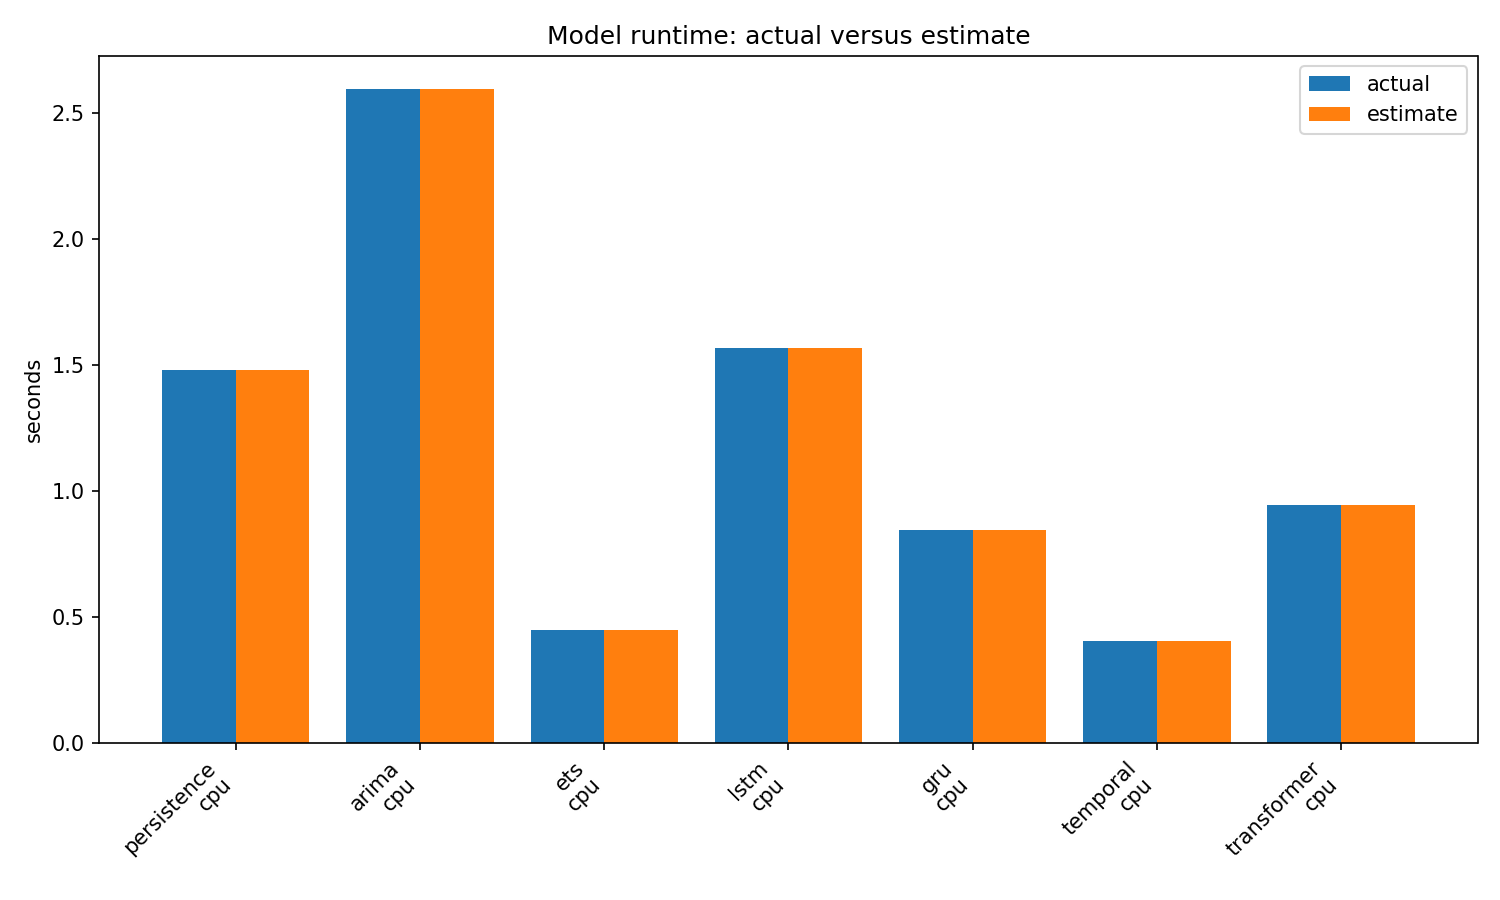
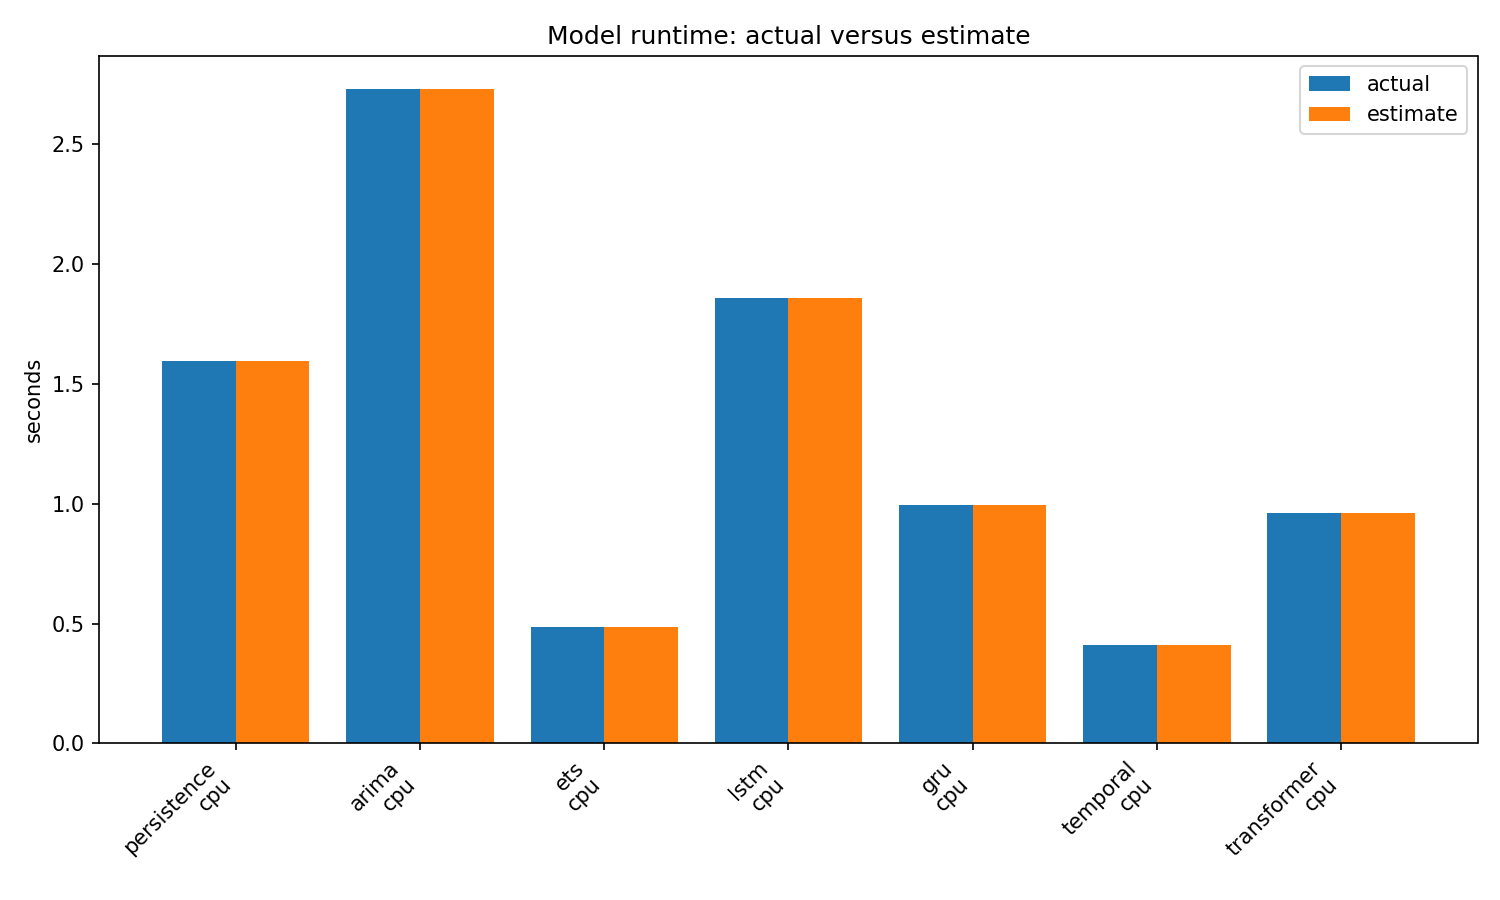
experiment: align forecast rerun with telemetry handoff

diff --git a/experiments/analysis/k3d-20261101-forecasting/README.md b/experiments/analysis/k3d-20261101-forecasting/README.md
@@ -5,10 +5,10 @@
 Do not activate any model. The temporal convolution is the validation-selected
 candidate for further shadow evaluation, but this capture is only 30 minutes of
 idle k3d telemetry and its node measurements share one Docker/WSL2 host. Only
-three independent calibration residuals were available per horizon, below the
-nine required to construct a finite-sample 90% conformal interval. Interval
-coverage is therefore unavailable, and these results do not support autonomous
-resource decisions.
+three per-node, time-spaced calibration residuals were available per horizon.
+They are also not independent physical-node evidence because all nodes share
+one host. Interval coverage is therefore unavailable, and these results do not
+support autonomous resource decisions.
 
 ## Data and protocol
 
@@ -21,22 +21,26 @@ resource decisions.
 - Split: chronological 60/20/20; validation is further separated for tuning,
   interval calibration, and coverage audit. Test origins are shared across all
   models and never used for fitting or calibration.
-- Interval status: unavailable. Node-aware spacing retains three independent
-  calibration residuals per horizon; the evaluator refuses to label these as
-  nominal 90% intervals.
+- Interval status: unavailable. Node-aware spacing retains three per-node
+  residuals per horizon, fewer than the nine required even before accounting
+  for shared-host correlation; the evaluator refuses a nominal 90% label.
 - Horizons: 5, 10, 30, and 60 seconds; seed 42; 20 requested epochs.
 - History: 20 one-second buckets. The documented 60-bucket default produced
   zero valid windows because the trace has 55 gaps above 1.5 seconds per node.
   No values were imputed. Twenty buckets retained 486 train, 147 validation,
   and 174 test windows before the shared 64-origin score cap.
-- Evaluation base commit: `38b319ae20a0f1615031e05fd01d5c459279c7a8`;
-  result records mark the tree dirty because they include this interval guard.
+- Evaluation commit: `bb4764672d08d6d9d82a5d785be058cda4c467a6`;
+  all result records report a clean working tree.
 - Software: Python 3.10.11, PyTorch 2.14.1, statsmodels 0.15.0.
 
 Obtain the Teammate 2 handoff bundle named
 `k3d-20261101T122151Z-712516d` from the project shared handoff storage and
 verify `processed/node-events.jsonl` against the SHA-256 above. The capture is
 not committed because repository policy excludes raw and processed datasets.
+PR #8 records the handoff archive as
+`local-dev/artifacts/k3d-20261101T122151Z-712516d.zip`, SHA-256
[1 lines of base64/hex data omitted]
+no durable artifact URL was available at evaluation time.
 From `services/prediction-service`, import it and run the comparison:
 
 ```text
@@ -52,13 +56,13 @@ each origin and do not have a serialized serving artifact.
 
 | Model | Validation RMSE | Test RMSE | Interval coverage | Mean inference ms | Artifact bytes | Run seconds |
 |---|---:|---:|---:|---:|---:|---:|
-| Persistence | 0.017835 | 0.024384 | unavailable | 0.0003 | n/a | 1.481 |
-| ARIMA | 0.014227 | 0.016786 | unavailable | 13.2393 | n/a | 2.595 |
-| ETS | 0.014233 | 0.016760 | unavailable | 2.1155 | n/a | 0.451 |
-| LSTM | 0.014385 | 0.016749 | unavailable | 0.1574 | 8,429 | 1.566 |
-| GRU | 0.013712 | 0.016219 | unavailable | 0.3718 | 7,201 | 0.844 |
-| Temporal convolution | **0.013083** | 0.016727 | unavailable | 0.0636 | **5,021** | 0.406 |
-| Transformer | 0.013857 | 0.016225 | unavailable | 0.2523 | 17,775 | 0.944 |
+| Persistence | 0.017835 | 0.024384 | unavailable | 0.0003 | n/a | 1.596 |
+| ARIMA | 0.014227 | 0.016786 | unavailable | 13.6492 | n/a | 2.733 |
+| ETS | 0.014233 | 0.016760 | unavailable | 2.3646 | n/a | 0.487 |
+| LSTM | 0.014385 | 0.016749 | unavailable | 0.1560 | 8,429 | 1.860 |
+| GRU | 0.013712 | 0.016219 | unavailable | 0.4126 | 7,201 | 0.995 |
+| Temporal convolution | **0.013083** | 0.016727 | unavailable | 0.0691 | **5,021** | 0.411 |
+| Transformer | 0.013857 | 0.016225 | unavailable | 0.2415 | 17,775 | 0.963 |
 
 The temporal model was selected using validation RMSE before reviewing test
 scores. GRU has the lowest mean test RMSE by a negligible margin, but selecting
@@ -72,12 +76,15 @@ The temporal candidate was measured for 200 warm runs on Windows
 
 | Path | Mean | Median | p95 | Maximum |
 |---|---:|---:|---:|---:|
-| Direct model inference | 0.100 ms | 0.079 ms | 0.209 ms | 0.302 ms |
-| In-process prediction API | 12.180 ms | 11.304 ms | 14.512 ms | 54.532 ms |
+| Direct model inference | 0.106 ms | 0.079 ms | 0.180 ms | 0.394 ms |
+| In-process prediction API | 12.824 ms | 12.080 ms | 16.199 ms | 54.449 ms |
 
 Both paths are below the design's 100 ms budget on this host. This is not a
 live-network measurement and not a deployment on independent edge hardware;
 target-edge latency and server resource use remain unverified.
+The observed 9.557-second telemetry gap exceeds the service's default
+five-second freshness limit, so a live service would intentionally degrade or
+return unavailable during such a gap; this run does not loosen that safety rule.
 
 ## Artifacts
 

diff --git a/docs/paper/results.md b/docs/paper/results.md
@@ -11,14 +11,16 @@ documented 60-sample history yielded no valid windows, so the comparison used
 a 20-sample history and records this deviation explicitly.
 
 The temporal convolution had the lowest mean validation RMSE (0.013083), a
-5,021-byte artifact, and 0.072 ms mean test inference latency. Its 200-repeat
-direct-inference p95 was 0.209 ms and its in-process API p95 was 14.512 ms on
+5,021-byte artifact, and 0.069 ms mean test inference latency. Its 200-repeat
+direct-inference p95 was 0.180 ms and its in-process API p95 was 16.199 ms on
 the 16-logical-CPU Windows testbed host. GRU had the lowest mean test RMSE
 (0.016219), but it was not selected from test results.
 
 No model is recommended for activation. The capture contains only an idle
 baseline, k3d nodes share one host, target-edge live-network latency was not
-measured, and the temporal model's mean held-out 90% interval coverage was
-only 51.6%. It is suitable only for further shadow evaluation on a longer,
-labeled workload and fault trace. Full tables, metadata, and plots are in
+measured, and only three correlated per-node calibration residuals were
+available per horizon. The evaluator therefore reports interval coverage as
+unavailable rather than assigning a nominal 90% label. The model is suitable
+only for further shadow evaluation on a longer, labeled workload and fault
+trace. Full tables, metadata, and plots are in
 [`experiments/analysis/k3d-20261101-forecasting`](../../experiments/analysis/k3d-20261101-forecasting/README.md).
